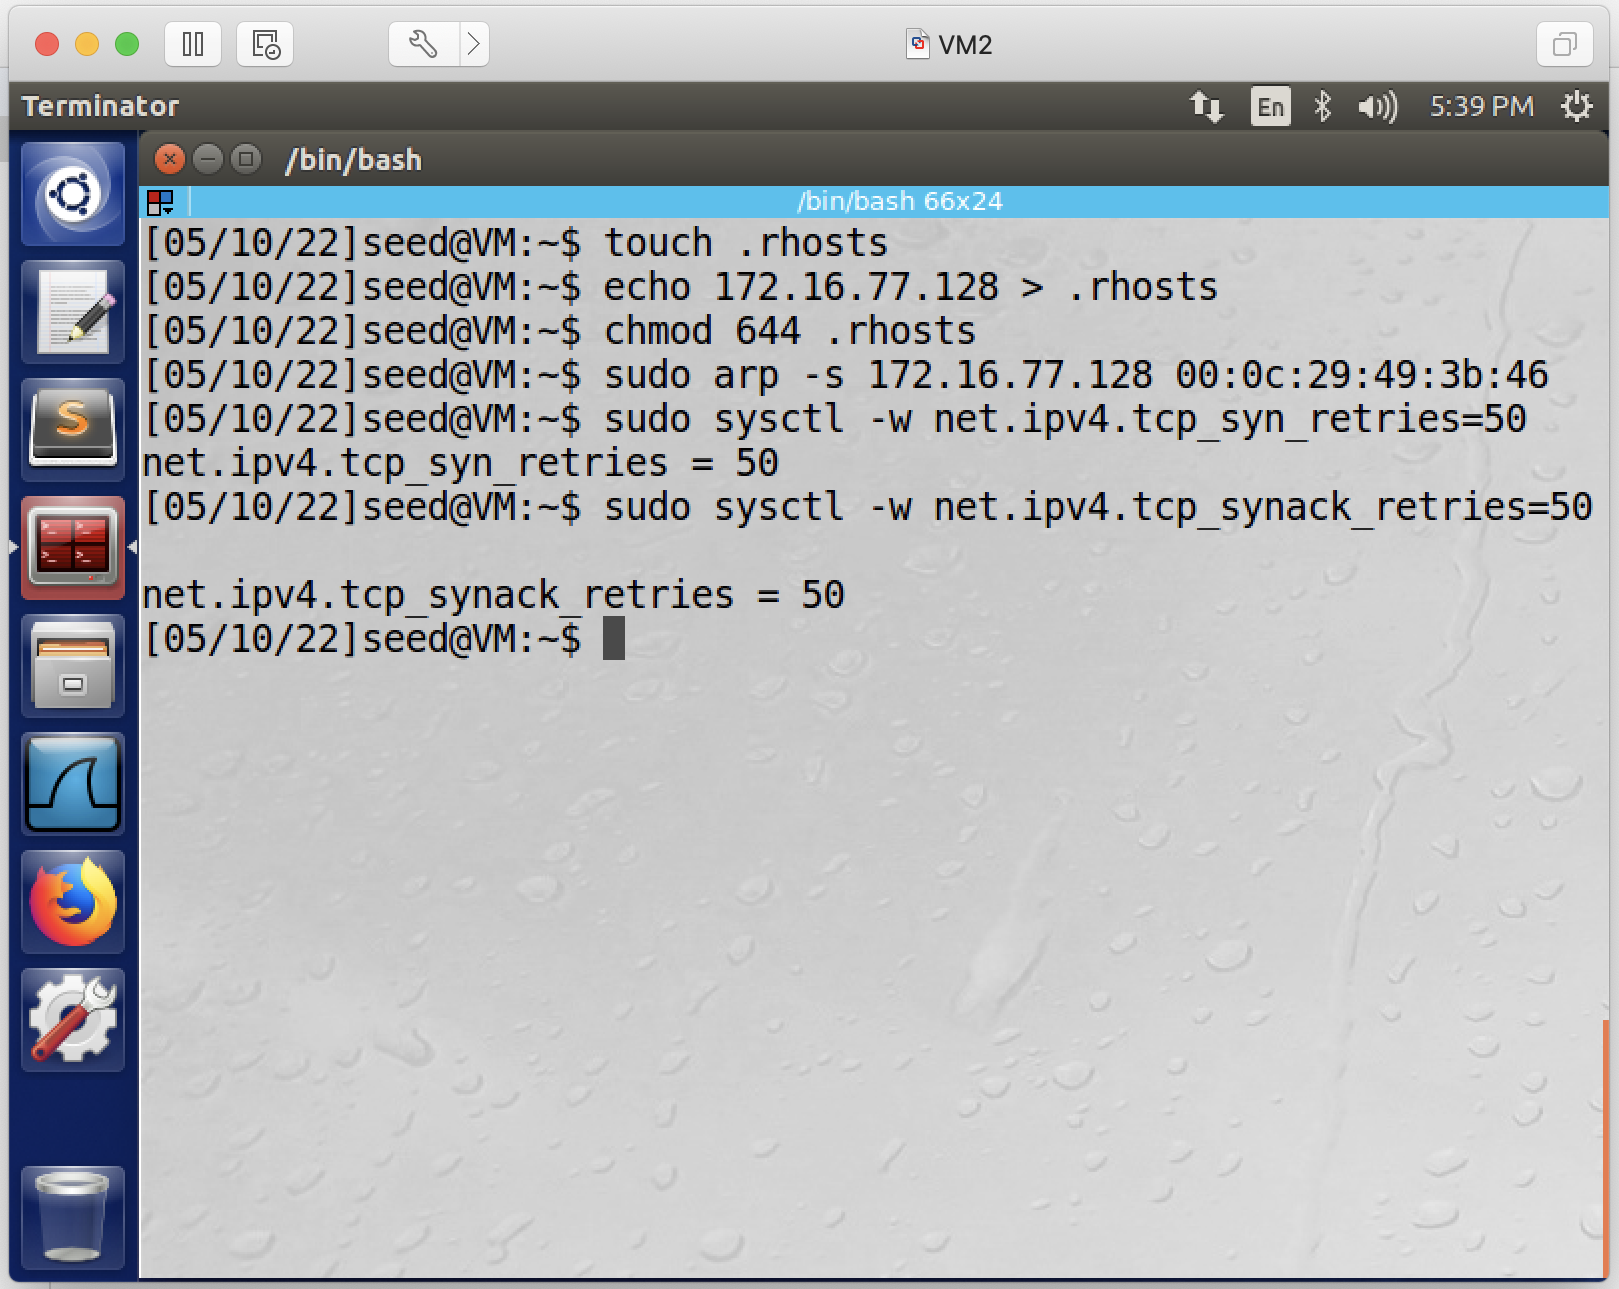
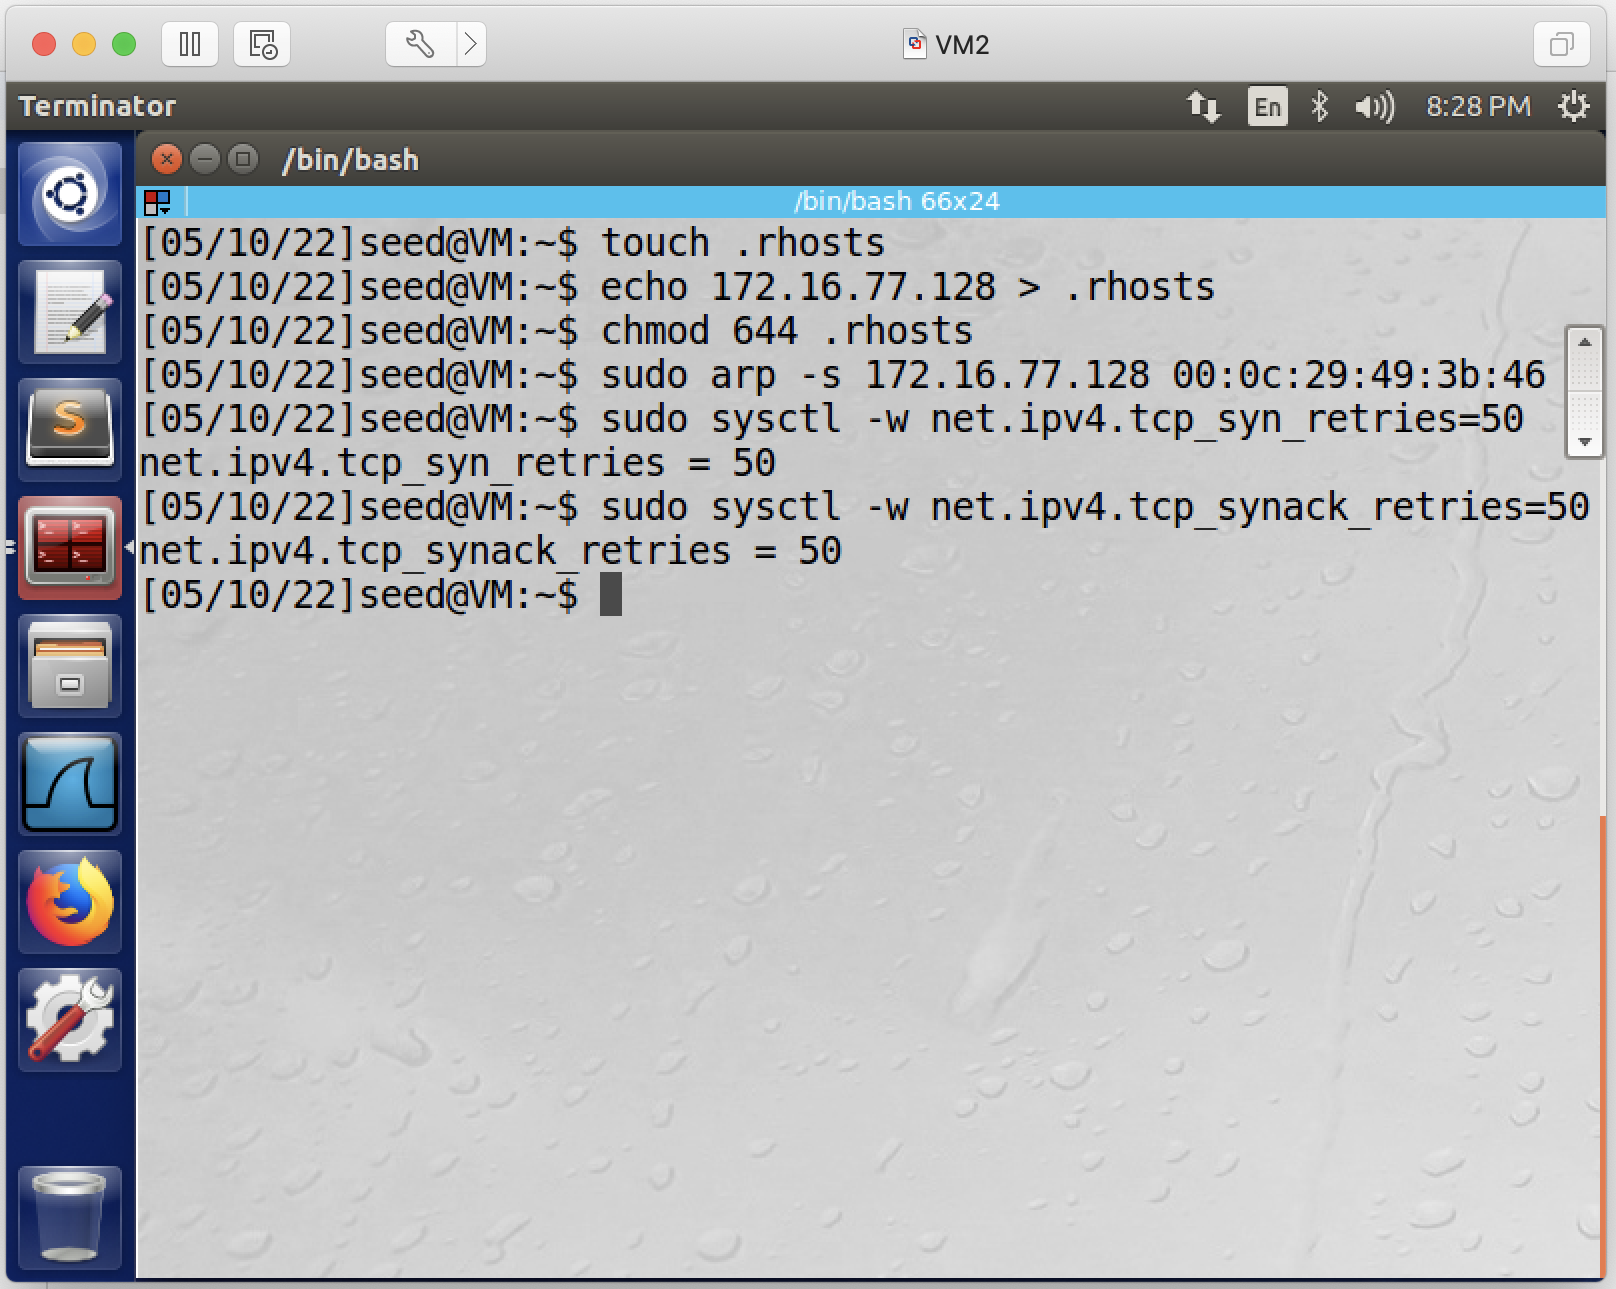
updating images

diff --git a/labs/mitnick/README.md b/labs/mitnick/README.md
@@ -107,7 +107,7 @@ This screenshot shows x is 2247827088, and thus x+1 is 2247827089.
 ![alt text](lab-mitnick-first-syn.png "first syn packet")
 
 This screenshot shows y is 734062308, and thus y+1 is 734062309.
-![alt text](lab-mitnick-first-syn-ack.png "first syn packet")
+![alt text](lab-mitnick-first-syn-ack.png "first syn ack packet")
 
 step 6.3: send one ACK packet to the server. This packet carries the command we want to run:
 
@@ -150,4 +150,6 @@ This screenshot shows that z is 703071262, and thus z+1 is 703071263.
 
 step 8. on the victim's server machine, see if /tmp/xyz is created.
 
-![alt text](lab-mitnick-retries.png "changing retry limits")
+![alt text](lab-mitnick-success.png "lab success")
+
+The above screenshot shows the attack is successful, and this concludes the lab.
